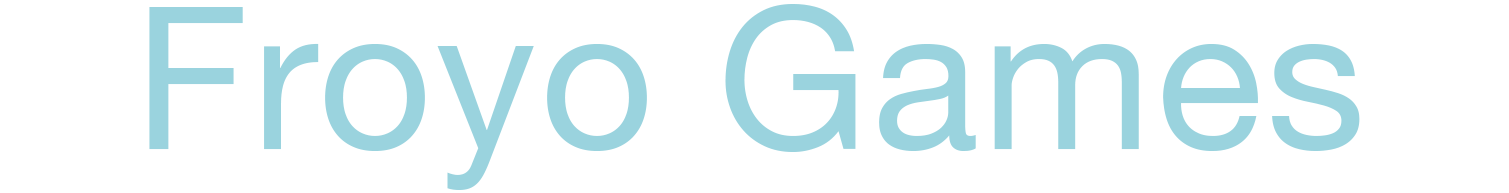
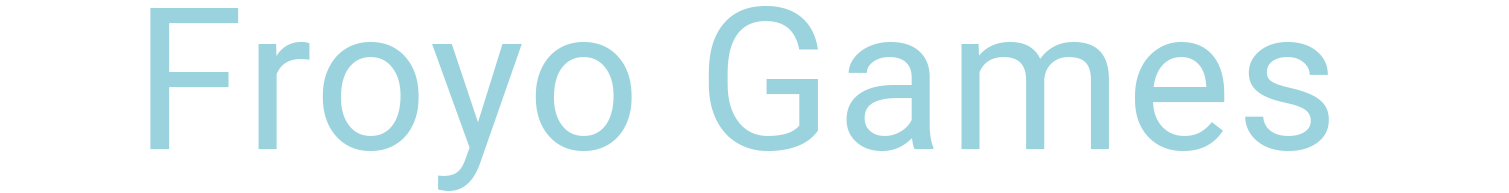
Added start button and made some basic style changes

diff --git a/src/ooga/view/elements/SplashScreenButtonBox.java b/src/ooga/view/elements/SplashScreenButtonBox.java
@@ -6,6 +6,7 @@ import java.util.ResourceBundle;
 import javafx.event.ActionEvent;
 import javafx.event.EventHandler;
 import javafx.geometry.Pos;
+import javafx.scene.control.Toggle;
 import javafx.scene.control.ToggleGroup;
 import javafx.scene.layout.HBox;
 import javafx.scene.layout.VBox;
@@ -16,13 +17,20 @@ public class SplashScreenButtonBox extends VBox {
 
   private ResourceBundle resourceBundle;
   private ToggleGroup gameToggleGroup, playerToggleGroup;
+  private GridGameController controller;
 
-  public SplashScreenButtonBox(ResourceBundle resourceBundle, GridGameController controller, Display display) {
+  public SplashScreenButtonBox(ResourceBundle resourceBundle, GridGameController controller) {
     this.resourceBundle = resourceBundle;
+    this.controller = controller;
     setSpacing(15);
 
-    getChildren().addAll(getGameButtonGroup(), getPlayerButtonGroup());
+    getChildren().addAll(getGameButtonGroup(), getPlayerButtonGroup(), getStartButtonGroup());
+  }
 
+  private void startGame() {
+    Toggle selectedGame = gameToggleGroup.getSelectedToggle();
+    Toggle selectedPlayers = playerToggleGroup.getSelectedToggle();
+    // controller.initiateGame()
   }
 
   private VBox getGameButtonGroup() {
@@ -43,10 +51,18 @@ public class SplashScreenButtonBox extends VBox {
     result.setAlignment(Pos.CENTER);
     playerToggleGroup = new ToggleGroup();
     CustomToggleButton onePlayerBtn = new CustomToggleButton("One Player", playerToggleGroup, 150
-        , 60);
+        , 55);
     CustomToggleButton twoPlayerBtn = new CustomToggleButton("Two Player", playerToggleGroup, 150
-        , 60);
+        , 55);
     result.getChildren().addAll(onePlayerBtn, twoPlayerBtn);
+    return result;
+  }
+
+  private VBox getStartButtonGroup() {
+    VBox result = new VBox();
+    result.setAlignment(Pos.CENTER);
+    CustomButton startButton = new CustomButton("Start", event -> startGame());
+    result.getChildren().add(startButton);
     return result;
   }
 }

diff --git a/src/ooga/view/screens/SplashScreen.java b/src/ooga/view/screens/SplashScreen.java
@@ -18,8 +18,8 @@ public class SplashScreen extends GridPane implements Styleable {
 
   private static final String BACKGROUND_STYLE_CLASS = "background";
   private static final String DEFAULT_STYLE_SHEET = "style/default.css";
-  private static final int WIDTH = 800;
-  private static final int HEIGHT = 600;
+  private static final int WIDTH = 600;
+  private static final int HEIGHT = 450;
 
   private ResourceBundle resourceBundle;
 
@@ -33,10 +33,10 @@ public class SplashScreen extends GridPane implements Styleable {
     getColumnConstraints().add(Util.getColumnConstraints(Priority.NEVER, true, WIDTH));
 
     add(new SplashScreenTitleBox(), 0, 0);
-    getRowConstraints().add(Util.getRowConstraints(Priority.NEVER, false, 150));
+    getRowConstraints().add(Util.getRowConstraints(Priority.NEVER, false, 120));
     getStyleClass().add(BACKGROUND_STYLE_CLASS);
 
-    add(new SplashScreenButtonBox(resourceBundle, controller, display), 0, 1);
+    add(new SplashScreenButtonBox(resourceBundle, controller), 0, 1);
     getRowConstraints().add(Util.getRowConstraints(Priority.SOMETIMES, true, 200));
   }
 

diff --git a/src/ooga/view/elements/CustomToggleButton.java b/src/ooga/view/elements/CustomToggleButton.java
@@ -8,8 +8,8 @@ import javafx.scene.control.ToggleGroup;
 
 public class CustomToggleButton extends ToggleButton {
 
-  private static final int DEFAULT_WIDTH = 200;
-  private static final int DEFAULT_HEIGHT = 60;
+  private static final int DEFAULT_WIDTH = 230;
+  private static final int DEFAULT_HEIGHT = 55;
 
   public CustomToggleButton(String text, ToggleGroup toggleGroup, int width, int height) {
     setToggleGroup(toggleGroup);
